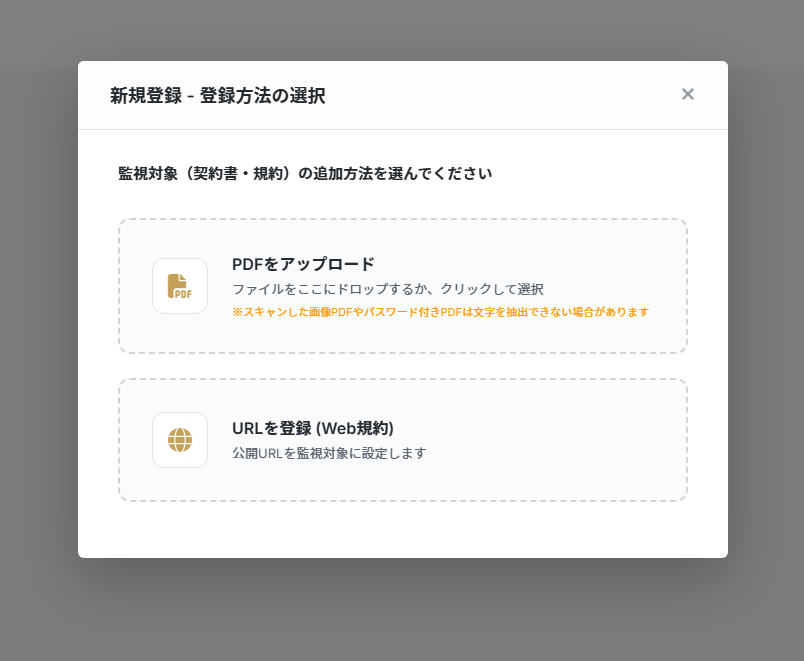
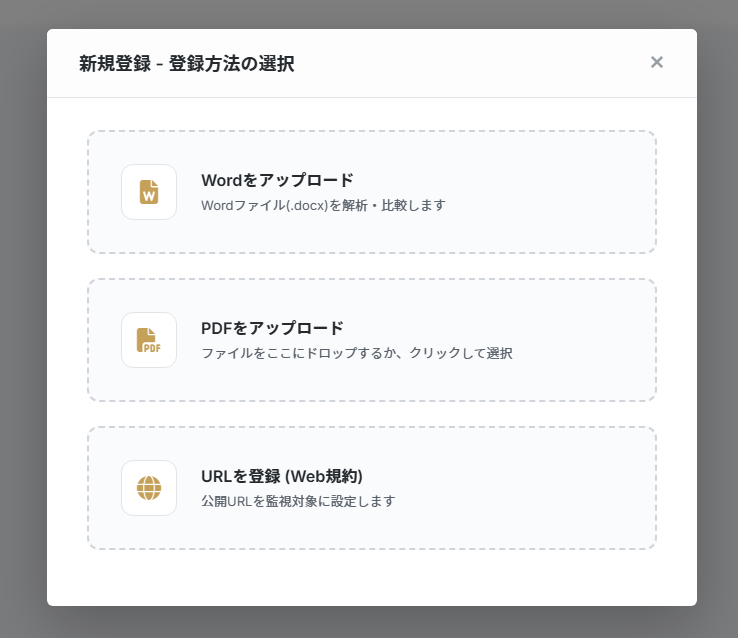
feat(lp): update final CTA/footer and refresh step1 asset

diff --git a/index.html b/index.html
@@ -613,8 +613,8 @@
                     <div class="step-number">01</div>
                     <div class="step-content">
                         <div class="step-icon-wrap"><i class="fa-solid fa-file-import"></i></div>
-                        <h3 class="step-title-single">PDF/URL登録</h3>
-                        <p>契約書PDFをアップロード、またはURLを登録するだけ。</p>
+                        <h3 class="step-title-single">書類登録</h3>
+                        <p>PDF・Wordをアップロード、またはURLを登録するだけ。</p>
                     </div>
                 </div>
                 <!-- Step 2 -->
@@ -666,10 +666,10 @@
             <article class="step-card">
                 <div class="step-badge">STEP 1</div>
                 <div class="step-image">
-                    <img src="images/step1-upload-dialog.png" alt="契約書をアップロード" class="step-img" loading="lazy">
+                    <img src="images/スクリーンショット 2026-03-09 001250.png" alt="契約書をアップロード" class="step-img" loading="lazy">
                 </div>
                 <h3 class="step-title">契約書をアップロード</h3>
-                <p class="step-desc">PDFまたはURLを登録。<br>契約書や利用規約をそのままアップロードできます。</p>
+                <p class="step-desc">PDF・WordまたはURLを登録。<br>契約書や利用規約をそのままアップロードできます。</p>
             </article>
 
             <div class="step-arrow desktop-only">
@@ -1146,38 +1146,64 @@
                     <span>導入までどのくらいの期間がかかりますか？</span>
                 </div>
                 <div class="faq-answer">
-                    <p>アカウント作成後、すぐにご利用いただけます。複雑な環境構築やインストールは不要で、ブラウザからお手持ちのPDFファイルをアップロード、あるいはURLを指定するだけで解析を開始できます。
+                    <p>アカウント作成後、すぐにご利用いただけます。複雑な環境構築やインストールは不要で、ブラウザからWord（.docx）またはPDFファイルをアップロード、またはWEBサイトのURLを登録するだけで解析を開始できます。
                     </p>
                 </div>
             </div>
             <div class="faq-item">
                 <div class="faq-question">
-                    <span>どのようなファイル形式に対応していますか？</span>
+                    <span>対応しているファイル形式は何ですか？</span>
                 </div>
                 <div class="faq-answer">
-                    <p>現在はPDFファイルのアップロードと、WEBサイトのURL指定による自動チェックに対応しています。今後、Word（.docx）形式などへの対応も順次進めてまいります。</p>
+                    <p>現在、PDFおよびWord（.docx）形式の契約書アップロードに対応しています。<br>また、WEBサイトのURLを登録することで、利用規約やポリシーの変更を自動検知することも可能です。</p>
                 </div>
-            </div>
-        </div>
-        <div class="faq-cta-wrap scroll-fade" data-delay="120">
-            <p class="faq-cta-copy">7日間無料トライアル実施中</p>
-            <div class="section-inline-cta section-inline-cta--faq">
-                <a href="#pricing" class="btn btn-primary full-width">7日間無料で試してみる</a>
             </div>
         </div>
     </div>
 </section>
 
+<!-- Final CTA -->
+<section class="final-cta">
+    <div class="container final-cta-inner">
+        <h2>まずは契約書チェックを体験してください</h2>
+        <p class="final-cta-sub">PDFまたはWord（.docx）をアップロードするだけで、契約書の差分とリスクをAIが分析します。</p>
+        <ul class="final-cta-trust">
+            <li>インストール不要</li>
+            <li>ブラウザですぐ利用可能</li>
+            <li>7日間無料</li>
+        </ul>
+        <a href="login.html?mode=signup" class="btn cta-button">7日間無料で試してみる</a>
+        <p class="final-cta-note">クレジットカード登録不要</p>
+    </div>
+</section>
+
 <!-- Footer -->
-<footer class="footer">
-    <div class="container text-center">
-        <div class="footer-links" style="margin-bottom: 1.5rem;">
-            <a href="company.html" style="font-size: 0.9rem; color: #888; margin: 0 1rem;">会社概要</a>
-            <a href="law.html" style="font-size: 0.9rem; color: #888; margin: 0 1rem;">特定商取引法に基づく表記</a>
-            <a href="terms.html" style="font-size: 0.9rem; color: #888; margin: 0 1rem;">利用規約</a>
-            <a href="privacy.html" style="font-size: 0.9rem; color: #888; margin: 0 1rem;">プライバシーポリシー</a>
+<footer class="site-footer">
+    <div class="container footer-container">
+        <div class="footer-column">
+            <h3>サービス</h3>
+            <a href="#features">機能</a>
+            <a href="#pricing">料金</a>
+            <a href="onboarding.html">導入支援</a>
         </div>
-        <p>&copy; 2026 SpaceGleam All Rights Reserved.</p>
+        <div class="footer-column">
+            <h3>サポート</h3>
+            <a href="#faq">よくある質問</a>
+            <a href="mailto:contact@spacegleam.co.jp">お問い合わせ</a>
+        </div>
+        <div class="footer-column">
+            <h3>会社情報</h3>
+            <a href="company.html">会社概要</a>
+            <a href="law.html">特定商取引法に基づく表記</a>
+            <a href="terms.html">利用規約</a>
+            <a href="privacy.html">プライバシーポリシー</a>
+            <a href="https://x.com/DIFFsense_jp" class="footer-x" target="_blank" rel="noopener" aria-label="DIFFsense公式X" title="DIFFsense公式X">
+                <span class="x-icon" aria-hidden="true">𝕏</span>
+            </a>
+        </div>
+    </div>
+    <div class="footer-copy">
+        © 2026 SpaceGleam Inc. All Rights Reserved.
     </div>
 </footer>
 

diff --git a/css/style.css b/css/style.css
@@ -300,20 +300,23 @@ ul {
 }
 
 .btn-login {
-    color: #ccc;
-    font-weight: 500;
-    transition: color 0.3s;
-    border: none;
-    background: transparent;
+    color: #e6dccb;
+    font-weight: 600;
+    transition: all 0.25s ease;
+    border: 1px solid rgba(197, 160, 89, 0.55);
+    background: rgba(197, 160, 89, 0.08);
     padding: 0.5rem 1.2rem;
     /* Match btn-sm padding */
     display: inline-flex;
     align-items: center;
     height: auto;
+    border-radius: 8px;
 }
 
 .btn-login:hover {
-    color: #fff;
+    color: #17120d;
+    background: #c5a059;
+    border-color: #c5a059;
 }
 
 /* Specific style for the outline CTA in header */
@@ -1524,16 +1527,129 @@ ul {
     border-radius: var(--radius-sm);
 }
 
-/* Footer (Dark) */
-.footer {
-    background-color: #1a1512;
-    padding: 3rem 0;
-    border-top: none;
-    color: #888;
+/* Final CTA + Footer */
+.final-cta {
+    text-align: center;
+    padding: 80px 20px;
+    background: #faf8f4;
+    border-top: 1px solid #ede8de;
 }
 
-.footer p {
-    font-size: 0.9rem;
+.final-cta-inner {
+    max-width: 900px;
+    margin: 0 auto;
+}
+
+.final-cta h2 {
+    font-size: 28px;
+    font-weight: 600;
+    margin-bottom: 16px;
+    color: #1f1b16;
+}
+
+.final-cta-sub {
+    color: #666;
+    margin: 0 auto 24px;
+    max-width: 760px;
+    line-height: 1.8;
+}
+
+.final-cta-trust {
+    display: flex;
+    justify-content: center;
+    gap: 20px;
+    flex-wrap: wrap;
+    margin: 0 0 28px;
+    padding: 0;
+    list-style: none;
+    color: #5f5648;
+    font-size: 14px;
+}
+
+.cta-button {
+    background: #c7a15a;
+    color: #fff;
+    padding: 14px 32px;
+    border-radius: 8px;
+    font-size: 16px;
+    font-weight: 600;
+    display: inline-block;
+    text-decoration: none;
+    transition: background-color 0.2s ease;
+}
+
+.cta-button:hover {
+    background: #b9934c;
+    color: #fff;
+}
+
+.final-cta-note {
+    margin-top: 12px;
+    font-size: 13px;
+    color: #7a6e5b;
+}
+
+.site-footer {
+    background: #1f1b16;
+    color: #ddd;
+    padding: 40px 0 22px;
+}
+
+.footer-container {
+    max-width: 1100px;
+    margin: 0 auto;
+    display: grid;
+    grid-template-columns: 1fr 1fr 1fr;
+    gap: 40px;
+}
+
+.footer-column h3 {
+    margin: 0 0 14px;
+    font-size: 15px;
+    font-weight: 600;
+    color: #f2e8d7;
+}
+
+.footer-column a {
+    display: block;
+    margin-bottom: 10px;
+    color: #ccc;
+    text-decoration: none;
+    font-size: 14px;
+    line-height: 1.6;
+}
+
+.footer-column a:hover {
+    color: #fff;
+}
+
+.footer-x {
+    display: inline-block;
+    margin-top: 10px;
+    color: #bbb;
+    font-size: 18px;
+    line-height: 1;
+    text-decoration: none;
+    transition: opacity 0.2s ease, color 0.2s ease;
+}
+
+.footer-x:hover {
+    color: #fff;
+    opacity: 0.8;
+}
+
+.x-icon {
+    display: inline-block;
+    width: 20px;
+    height: 20px;
+    text-align: center;
+}
+
+.footer-copy {
+    margin-top: 26px;
+    text-align: center;
+    color: #a99b85;
+    font-size: 13px;
 }
 
 /* Navigation Login Link */
@@ -4461,5 +4577,24 @@ ul {
 
     .onboarding-desc br {
         display: none;
+    }
+}
+
+@media (max-width: 768px) {
+    .final-cta {
+        padding: 56px 16px;
+    }
+
+    .final-cta h2 {
+        font-size: 22px;
+    }
+
+    .final-cta-sub {
+        font-size: 15px;
+    }
+
+    .footer-container {
+        grid-template-columns: 1fr;
+        gap: 28px;
     }
 }
